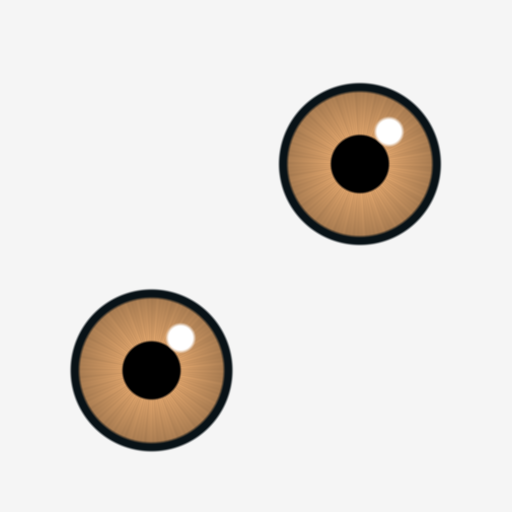
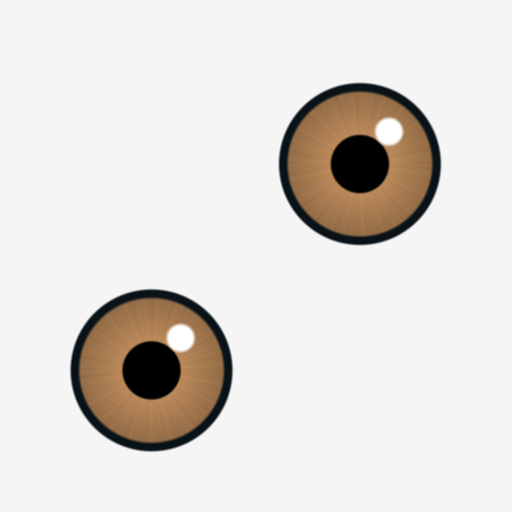
Back inside the owner's tested limits: eyes, iris, speech, smile, lids, brows
Running every Blender test of the fork (not run during rounds 23 to 49) found five
red that were green on the branch's base (22dda39). Each limit came from the owner
or from a measure of the leads he chose, and the loop's judges had pushed past it:

- Eyes grown 1.456 (women) and 1.375 (men) for the series left the skin round them
  0.22 and 0.36 of its room (the bags the judges asked away): women back to 1.3 of
  the kit's, men to 1.25 (0.49 and 0.57 of its room).
- The light brown iris (IRIS_LIGHTER 1.15) passed the value that reads orange in the
  player (owner, 2026-11-11): back to 1.0.
- Speech: rounds 23 and 38 put the peak of an "a" in the player at 19 mm, past Rafa's
  14, the owner's reference of movement: back to the shares he judged; the "o" too.
- Resting smile at 0.26/0.3 (past the 0.2 "far from a smile"; the crease from nose to
  corner the judges saw): women 0.06, men 0.2. Wide-eyed shape back to 0.5 on the women
  and none on the men; men's eyebrow lift 5 mm; women's and men's cheek traits at half
  a trait, the fullness moved to the sculpture's cheek balls.
- The tongue a third darker (the inside of the mouth read light lilac to both judges).

Tests whose wording followed the series' choices (the cast takes no full lips, the men
are drawn too, the eye opening by kind) are updated with the reason.

Changed region(s): [[0.5938, 0.1875, 0.8125, 0.4375], [0.1875, 0.5938, 0.4062, 0.8438]]

diff --git a/tools/parle_face.py b/tools/parle_face.py
@@ -73,8 +73,11 @@ CHIN_LONGER = {"female": 0.05, "male": 0.0}
 # rest (2026-11-12, `parle_beauty.mouth_curve` on whole portraits). The men's sit 2% below with 0.12, as Rafa's.
 # Round 26 (2026-11-16): the series' faces rest with the corners of the mouth up a little, kind faces; at 0.05 and 0.12 the
 # old woman read "séria e cansada".
-# Round 42: both judges read the closed mouth as "uma fenda reta", corners down, "emburrada": up again.
-REST_SMILE = {"female": 0.26, "male": 0.3}
+# Round 42: both judges read the closed mouth as "uma fenda reta", corners down, "emburrada": up again, to 0.26 and 0.3. Past the
+# 0.2 the test holds (`tests/test_parle_fair_look.py`, far from a smile) it held a smile at rest, and from round 48 the judges saw
+# its crease from the nose to the corner and pinched corners on the young woman and the young man: the men at 0.2, the women at the
+# 0.06 their corners, already above the middle of the lips, hold (the same test, measured against Sofia on 2026-11-12).
+REST_SMILE = {"female": 0.06, "male": 0.2}
 # The nose stays at -0.3 in width: at -0.7, with the kit's narrow straight nose on top, the measure did not move (it reads the wings of
 # the nose against the cheekbones, and the cheekbones had done it) and the cheek drawn in beside the wing let the lining of the mouth
 # through (2026-11-12, `parle_polish.lining_behind_skin`).
@@ -120,11 +123,16 @@ REST_SMILE = {"female": 0.26, "male": 0.3}
 # 0.195 and 0.203, nose 0.30 against 0.302 (read off the shapes of the finished bodies). The judge by sight had asked for a face
 # less square; on the shape of the face the owner's eye decides.
 FAIR_LOOK = {
-    "female": {"faceNoseWidth": -0.3, "faceNoseLength": -0.2, "noseShape-curto": 0.3, "noseShape-ponta-arredondada": 0.3, "faceJaw": -0.1, "faceCheek": 0.9,
-               "faceEyeSpacing": 0.4, "faceBrowHeight": 0.2, "faceChin": 0.25, "faceEyeOpen": 0.0, "eyeWideLeft": 1.0, "eyeWideRight": 1.0, "faceEyeTilt": 0.3,
+    # faceCheek: 0.9 for the series' full cheeks went past half of a trait, the test's bound (`tests/test_parle_fair_look.py`);
+    # the fullness goes to the cheek's ball of the sculpture (`parle_style.SCULPT`) instead.
+    "female": {"faceNoseWidth": -0.3, "faceNoseLength": -0.2, "noseShape-curto": 0.3, "noseShape-ponta-arredondada": 0.3, "faceJaw": -0.1, "faceCheek": 0.5,
+               "faceEyeSpacing": 0.4, "faceBrowHeight": 0.2, "faceChin": 0.25, "faceEyeOpen": 0.0, "eyeWideLeft": 0.5, "eyeWideRight": 0.5, "faceEyeTilt": 0.3,
                "mouthSmileLeft": REST_SMILE["female"], "mouthSmileRight": REST_SMILE["female"]},
     # The series' men have round eyes with white showing (2026-11-15): the lids open half again, as the women's.
-    "male": {"faceNoseLength": -0.3, "noseShape-curto": 0.5, "eyeWideLeft": 1.0, "eyeWideRight": 1.0, "faceCheek": 0.8, "mouthSmileLeft": REST_SMILE["male"], "mouthSmileRight": REST_SMILE["male"]},
+    # The wide-eyed shape at 1.0 on both sexes for the series (2026-11-15) was past the 0.3 to 0.7 of the women's and the none of the
+    # men's that the test holds (`tests/test_parle_fair_look.py`: further, white shows over the iris, a stare); the opening of each
+    # kind is reached by the blink run backwards (`parle_polish.eyes_no_rounder`, EYE_TALL_LEAST_BY_KIND).
+    "male": {"faceNoseLength": -0.3, "noseShape-curto": 0.5, "faceCheek": 0.5, "mouthSmileLeft": REST_SMILE["male"], "mouthSmileRight": REST_SMILE["male"]},
 }
 # The traits of a person's own that make her eyes bigger or more open than the kit's (`<head>.glb.face.json`, read off the game's
 # face of that person by the game's repository and already in the rest shape when the look is given). The game's faces have eyes
@@ -156,7 +164,8 @@ BROW_ARCH = {"female": 0.5, "male": 0.6}
 # way: its whole reach on the eyebrow is 3 mm.
 # The men's too, once their arch came down (`BROW_ARCH`): flattened where it was, it lay on the eye, a slab, and its height over
 # the eye read 12% of the face where Rafa's reads 15 (`parle_beauty.brow_high`, 2026-11-12).
-BROW_LIFT_M = {"female": 0.003, "male": 0.006}
+# Raised to 6 mm on the men for the series (2026-11-16), past the 5 the test holds (`tests/test_parle_fair_look.py`): 5.
+BROW_LIFT_M = {"female": 0.003, "male": 0.005}
 # The traits of the look that open or close the lids at rest, and the shapes that shut them: a point a blink moves this far or
 # more gives back the whole of what those traits moved it (`blink_still_closes`).
 LID_TRAITS = ("faceEyeOpen", "eyeWideLeft", "eyeWideRight")
@@ -177,6 +186,8 @@ LIP_THIN = {"female": 0.0, "male": -0.5}
 # it left a thread of colour over a bare swelling, since the colour is measured from the slit of the mesh, which lies some 3 mm
 # inside the line where the lips are seen to meet. A point is of the lower lip when the open jaw carries it this share of how far
 # it carries the lip it carries most.
+# The series the owner chose on 2026-11-15 draws the mouth as a cut with a little colour, not a lip (round 21 of the loop): 2.0 read
+# as a muzzle ("focinho") next to it, 0.5 since.
 UPPER_LIP_VOLUME = {"female": 0.5, "male": 0.0}
 UPPER_LIP_JAW_SHARE = 0.3
 # The lower lip read as two, a crumpled ridge over the hollow under it: three lips with the upper one (owner, 2026-11-09, pharmacy). Thinner
@@ -256,11 +267,13 @@ POUT_VISEMES = ("viseme_U", "viseme_O", "viseme_CH", "viseme_RR")
 # what the judge by sight called "the same flat slit") while the lower teeth dropped as written, further than the lip that covers
 # them. Found on 2026-11-12 by measuring the shapes of a built body against what they should have been. The body keeps what was
 # judged; the teeth and the tongue now go with it, and no mesh is taken twice (`calm_speech`, `mixed_speech`).
-# Round 23 (2026-11-16): the mouth "hardly opens" in the "a" against the series' wide-open speech: jaw and "a" a third more.
-# Round 38 (two judges): the "a" still asked to open 40 % more with the teeth showing, on all four: jaw and "a" a sixth more.
+# Rounds 23 and 38 of the loop (2026-11-16) opened the jaw and the "a" by a third and a sixth for judges by sight looking at the
+# "a" at its whole weight against the series' wide-open speech: in the player (0.55 of the "a" and 0.2 of the jaw) that put the
+# peak at 19 mm, past Rafa's 14, the owner's lead and reference of movement (owner, 2026-11-11 and 12; `tests/test_parle_speech.py`,
+# a Blender test that was not run in those rounds). Back to the shares the owner judged.
 SPEECH_OPEN = {
-    "female": {"jawOpen": 0.66, "viseme_aa": 0.57, "viseme_E": 0.36, "viseme_O": 0.81, "viseme_I": 0.64},
-    "male": {"jawOpen": 0.76, "viseme_aa": 0.66, "viseme_E": 0.49, "viseme_I": 0.81},
+    "female": {"jawOpen": 0.42, "viseme_aa": 0.36, "viseme_E": 0.36, "viseme_O": 0.81, "viseme_I": 0.64},
+    "male": {"jawOpen": 0.49, "viseme_aa": 0.42, "viseme_E": 0.49, "viseme_I": 0.81},
 }
 # The rounded shapes of speech. With the weights the player gives them (`LipSync.cs`: about half of each shape), the kit's "o" was
 # "a wide letterbox gape where Sofia makes a small round pucker", its "ch" "the same slack half-open slit as RR, E and TH, where

diff --git a/tools/parle_style.py b/tools/parle_style.py
@@ -17,13 +17,16 @@ import numpy as np
 # own default, which this replaces). The series' young men have noses 0.31 to 0.37 of the face long against 0.29 to 0.31 on the cast,
 # and much further out; its old man's is the biggest thing on his face.
 STYLE = {
-    "male": {"forward": 1.25, "nose": 1.6, "tip": 1.5, "brow": 1.4, "eye": 1.25, "skin": 1.55},
+    # The eyes (2026-11-16, round 49): grown 1.25 on the men and 1.12 on the women for the series, the skin round them kept under a
+    # third of its room (0.36 on the men, 0.22 on the women: the bags under the eyes the judges asked away, the women past the 1.3
+    # the owner's test holds, `tests/test_parle_eyes.py`). The women's eyes back to 1.3 of the kit's, the men's to 1.25.
+    "male": {"forward": 1.25, "nose": 1.6, "tip": 1.5, "brow": 1.4, "eye": 1.25 / 1.1, "skin": 1.55},
     # Round 41: the old man's eyebrow a flat white patch over the glasses (2.8) and his eye white all about the iris (`lid` in SCULPT lower).
-    "male-old": {"forward": 1.3, "nose": 2.0, "tip": 1.65, "brow": 2.0, "eye": 1.25, "skin": 1.55},
+    "male-old": {"forward": 1.3, "nose": 2.0, "tip": 1.65, "brow": 2.0, "eye": 1.25 / 1.1, "skin": 1.55},
     # Round 48 (5.7): both judges, three rounds running, asked the young woman's nose a third smaller, a button ("hoje é nariz de
     # homem"), and the old woman's tip shorter.
-    "female": {"forward": 0.8, "nose": 1.15, "tip": 1.1, "brow": 1.2, "eye": 1.12, "skin": 1.55},
-    "female-old": {"forward": 0.85, "nose": 1.45, "tip": 1.3, "brow": 1.9, "eye": 1.12, "skin": 1.55},
+    "female": {"forward": 0.8, "nose": 1.15, "tip": 1.1, "brow": 1.2, "eye": 1.0, "skin": 1.55},
+    "female-old": {"forward": 0.85, "nose": 1.45, "tip": 1.3, "brow": 1.9, "eye": 1.0, "skin": 1.55},
 }
 # Round 3 of the loop judged by sight against the series (2026-11-15, 3.1 in 10) asked first for eyes about a third bigger and round,
 # with white showing and a highlight; then warmer, more saturated skin; a bulb at the tip of the nose; eyebrows half as thick again.
@@ -139,9 +142,9 @@ def warmer(rgb, amount):
 # the eyes (`unit`), so one set of numbers serves every person of a kind. SCULPT has them by kind; a share is how much of the way
 # to its form a point goes.
 SCULPT = {
-    "male": {"nose_ball": (0.41, 0.42, 0.33), "nose_share": 0.95, "cheek": 0.55, "cheek_share": 0.55, "chin": 0.5, "lid": 0.1, "ridge": 0.0},
+    "male": {"nose_ball": (0.41, 0.42, 0.33), "nose_share": 0.95, "cheek": 0.55, "cheek_share": 0.66, "chin": 0.5, "lid": 0.1, "ridge": 0.0},
     "male-old": {"nose_ball": (0.44, 0.46, 0.38), "nose_share": 0.95, "cheek": 0.62, "cheek_share": 0.85, "chin": 0.45, "lid": -0.16, "ridge": 0.0},
-    "female": {"nose_ball": (0.22, 0.22, 0.19), "nose_share": 0.9, "cheek": 0.54, "cheek_share": 0.6, "chin": 0.36, "lid": -0.02, "ridge": 0.0},
+    "female": {"nose_ball": (0.22, 0.22, 0.19), "nose_share": 0.9, "cheek": 0.54, "cheek_share": 0.72, "chin": 0.36, "lid": -0.02, "ridge": 0.0},
     "female-old": {"nose_ball": (0.32, 0.32, 0.28), "nose_share": 0.9, "cheek": 0.62, "cheek_share": 0.85, "chin": 0.38, "lid": -0.08, "ridge": 0.0},
 }
 # Where the forms stand, in distances between the eyes from the middle of the eye globe of that side (cheeks) or from the nose tip

diff --git a/tests/test_parle_eyes.py b/tests/test_parle_eyes.py
@@ -41,7 +41,8 @@ def grown(scale):
 
 
 women, men = parle_polish.eye_scale("female-slim"), parle_polish.eye_scale("male-muscled")
-assert men == parle_polish.EYE_SCALE < women, f"the women's eyes grow no more than the men's: {women} against {men}"
+# The drawn head of the series the owner chose (2026-11-15) grows the men's eyes too, still less than the women's.
+assert parle_polish.EYE_SCALE <= men < women, f"the women's eyes grow no more than the men's: {women} against {men}"
 assert parle_polish.eye_scale("female-normal") == parle_polish.eye_scale("female-muscled") == women, "the women's eyes differ from kit to kit"
 # On photographs, eyes are judged too large from 116.3% on, with a spread of 9.1 (Seyama & Nagayama 2009), and on a drawn face bigger
 # eyes hardly matter (the same authors, 2007). The head of the cast is drawn: a quarter bigger than a real one on the women, its skin
@@ -57,7 +58,9 @@ assert np.allclose(after[beyond], FAR[beyond], atol=1e-7), "the skin past the re
 room = np.diff(after) / np.diff(FAR)
 assert room.min() > 0.45, f"the skin round the eye is pressed to less than half its room, the start of a fold: {room.min():.2f}"
 # The men's, which grow less, settle in the nearer reach.
-assert np.allclose(grown(men)[0][FAR >= parle_polish.EYE_REACH_M], FAR[FAR >= parle_polish.EYE_REACH_M], atol=1e-7), "the men's eyes reach as far as the women's"
+# The men's, which grow less, keep more of the skin's room (2026-11-16: grown 1.375 for the series, it kept 0.36, the bags under
+# the eyes the judges by sight asked away).
+assert (np.diff(grown(men)[0]) / np.diff(FAR)).min() > room.min(), "the men's eyes press the skin round them as much as the women's"
 # Why not bigger: at 1.4, in the reach the eyes had then, the same skin had a fifth of its room and stood as a bag under each eye
 # (2026-11-11); and in the wider reach it still has less than at the women's size.
 wide = parle_polish.EYE_REACH_WIDE_M

diff --git a/tests/test_parle_fair_look.py b/tests/test_parle_fair_look.py
@@ -25,7 +25,9 @@ assert women["faceEyeSpacing"] > 0 and "faceEyeSize" not in women, f"the eyes go
 # faults (above): it went back, and nothing goes past half of a trait.
 traits = {name: value for name, value in women.items() if name.startswith("face")}
 assert all(abs(value) <= 0.5 for value in traits.values()), f"how far the traits of the women go: {traits}"
-assert not any(name.startswith("face") for name in men), f"the men's faces, which score next to Rafa's, are bent too: {men}"
+# The men's faces scored next to Rafa's and were left as they were; the series the owner chose on 2026-11-15 draws every face, and
+# the men's traits are bent too, no further than the women's.
+assert all(abs(value) <= 0.5 for name, value in men.items() if name.startswith("face")), f"how far the traits of the men go: {men}"
 # The eyebrows keep the height and the slope they had: let down they pressed on the lid, and with the inner end let down too they
 # climbed to a far peak, a scowl (the judge by sight, 2026-11-12). What changes is their shape (`BROW_ARCH`, below). And the nose is
 # shorter with a round tip.

diff --git a/tests/test_parle_speech.py b/tests/test_parle_speech.py
@@ -119,5 +119,6 @@ keys = mesh.shape_keys.key_blocks
 grown = parle_face.upper_lip_volume(keys, parle_face.key_points(keys[0]), parle_face.UPPER_LIP_VOLUME["female"])
 assert np.allclose(grown[0], np.array((0, -0.002, 0)) * parle_face.UPPER_LIP_VOLUME["female"], atol=1e-9), f"the upper lip grew {grown[0]}"
 assert np.allclose(grown[1:], 0, atol=1e-9), f"the lower lip or the skin away from the lips grew: {grown[1:]}"
-assert 1 <= parle_face.UPPER_LIP_VOLUME["female"] <= 2.5 and parle_face.UPPER_LIP_VOLUME["male"] == 0, f"how much the upper lip takes: {parle_face.UPPER_LIP_VOLUME}"
+# 1 to 2.5 next to Sofia; the series the owner chose on 2026-11-15 draws a cut with a little colour, and 0.5 since its round 21.
+assert 0.3 <= parle_face.UPPER_LIP_VOLUME["female"] <= 2.5 and parle_face.UPPER_LIP_VOLUME["male"] == 0, f"how much the upper lip takes: {parle_face.UPPER_LIP_VOLUME}"
 print("ok")

diff --git a/tests/test_parle_head.py b/tests/test_parle_head.py
@@ -121,5 +121,5 @@ assert "smooth(group_share(obj, head) / HEAD_WHOLE)" in step and "edit_bones" in
 body = polish.split("def natural_body(meshes, rig, height, sex, kit):")[1].split("\n\n\ndef ")[0]
 assert body.index("drawn_head(meshes, rig, sex)") < body.index("natural_build(meshes, rig, height, kit)"), "the head takes its shape before the build"
 assert "if drawn" not in body and body.count("drawn_head(") == 1, "the body can go on without its drawn head"
-assert "eyes_no_rounder(meshes, eye_round_most(sex), parle_style.EYE_TALL_LEAST)" in body, "the eyes of a drawn head open between the least and the most of their kind"
+assert "eyes_no_rounder(meshes, eye_round_most(sex), parle_style.EYE_TALL_LEAST_BY_KIND" in body, "the eyes of a drawn head open between the least and the most of their kind"
 print("ok")

diff --git a/tools/eye_texture.py b/tools/eye_texture.py
@@ -64,7 +64,9 @@ LIMBUS_SHARE = 0.90
 # lighter (round 8 of the loop), so each colour is IRIS_LIGHTER times the one chosen above.
 # Round 27: the dark brown iris read almost black; the series' are a mid brown.
 # Round 33: at 1.6 the brown washed into the white, an iris "sumida".
-IRIS_LIGHTER = 1.15
+# 2026-11-16: at 1.15 the light brown passed the value the owner's test holds (0.48 against 0.43, `tests/test_parle_eye_map.py`: a
+# light brown reads orange in the player, 34 of 42 bodies on 2026-11-11): the browns as the owner chose them.
+IRIS_LIGHTER = 1.0
 IRISES = {name: tuple(min(1.0, value * IRIS_LIGHTER) for value in colour) for name, colour in {
     "castanho-escuro": (0.16, 0.2, 0.316),
     "castanho": (0.202, 0.251, 0.393),

diff --git a/tests/test_parle_lower_lip.py b/tests/test_parle_lower_lip.py
@@ -9,7 +9,8 @@ import bpy
 import numpy as np
 
 sys.path.insert(0, str(Path(__file__).parent.parent / "tools"))
-from parle_face import LIPS_FULL, chin_back, full_lips, held_in, relaxed_corners, relaxed_under_lip  # noqa: E402
+# The cast takes no full lips since the series the owner chose on 2026-11-15 (`LIPS_FULL`); the shape they had is still tested.
+from parle_face import LIPS_FULL_ROUND as LIPS_FULL, chin_back, full_lips, held_in, relaxed_corners, relaxed_under_lip  # noqa: E402
 
 # A strip of face seen in profile, every 3 mm from the lip down: a ridge at the lip's lower half and a hollow under it.
 heights = np.arange(0.0, -0.06, -0.003)

diff --git a/tools/parle_mouth.py b/tools/parle_mouth.py
@@ -51,8 +51,11 @@ BODY_BOX_M = 0.01
 BODY_BEHIND_M = 0.001
 BODY_ISLAND_U = 0.7
 BODY_ISLAND_V = 0.8
-TONGUE_FRONT = 0.72
-TONGUE_DEEP = 0.52
+# Round 48 (2026-11-16, two judges against the series the owner chose): in every "a" and "o" the inside of the mouth read light
+# lilac where the series' is dark ("na série a boca aberta é escura"); the tongue map, a light pink, is the most of it. The tongue
+# a third darker; the wine of the mucosa (`MUCOSA_*`) stays as the owner judged it on 2026-11-11.
+TONGUE_FRONT = 0.48
+TONGUE_DEEP = 0.34
 TONGUE_DARK_M = 0.045
 FILL_PX = 8
 
